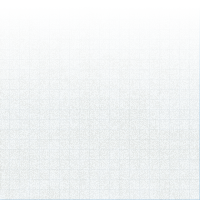
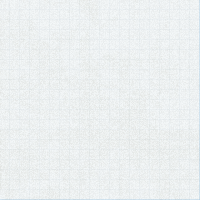
hero styling

diff --git a/index.html b/index.html
@@ -30,7 +30,7 @@
         </div>
     </div>
 
-    <div class="container-fluid">
+    <div class="container">
         <div class="row-fluid">
             <div class="span4">
                 <h2>1. Choose Your City</h2>
@@ -49,16 +49,12 @@
 
                     <div class="control-group">
                         <label class="control-label" for="keywords">Keywords</label>
-                        <div class="controls">
-                            <input type="text" id="keywords" placeholder="mountain, road, single speed, etc.">
-                        </div>
+                        <input type="text" id="keywords" placeholder="mountain, road, single speed, etc.">
                     </div>
 
                     <div class="control-group">
                         <label class="control-label" for="exclude">Excluding</label>
-                        <div class="controls">
-                            <input type="text" id="exclude" placeholder="landrider huffy">
-                        </div>
+                        <input type="text" id="exclude" placeholder="landrider huffy">
                     </div>
 
                 </div>
@@ -68,74 +64,72 @@
                 <h2>3. Refine</h2>
                 <div class="form-horizontal">
 
-                    <div class="control-group">
-                        <div class="controls">
+                    <div class="half">
+
+                        <div class="control-group">
                             <label class="checkbox" for="photos">
                                 <input type="checkbox" id="photos">
                                 Posts w/ photos
                             </label>
                         </div>
-                    </div>
 
 
-                    <div class="control-group">
-                        <div class="controls">
+                        <div class="control-group">
                             <label class="checkbox" for="women">
                                 <input type="checkbox" id="women">
                                 No women's bikes
                             </label>
                         </div>
-                    </div>
 
-                    <div class="control-group">
-                        <div class="controls">
+                        <div class="control-group">
                             <label class="checkbox" for="children">
                                 <input type="checkbox" id="children">
                                 No children's bikes
                             </label>
                         </div>
-                    </div>
 
-                    <div class="control-group">
-                        <div class="controls">
+                        <div class="control-group">
                             <label class="checkbox" for="hipster">
                                 <input type="checkbox" id="hipster">
                                 No hipster bikes
                             </label>
                         </div>
+
                     </div>
 
-                    <div class="control-group">
-                        <div class="controls">
+                    <div class="half">
+
+                        <div class="control-group">
                             <label class="checkbox" for="walmart">
                                 <input type="checkbox" id="walmart" checked>
                                 No Wal-mart bikes
                             </label>
                         </div>
-                    </div>
 
-                    <div class="control-group">
-                        <div class="controls">
+                        <div class="control-group">
                             <label class="checkbox" for="bmx">
                                 <input type="checkbox" id="bmx" checked>
                                 No BMX bikes
                             </label>
                         </div>
-                    </div>
 
-                    <div class="control-group">
-                        <div class="controls">
+                        <div class="control-group">
                             <label class="checkbox" for="shoes">
                                 <input type="checkbox" id="shoes" checked>
                                 No shoes
                             </label>
                         </div>
+
                     </div>
+
+                    <div class="clearfix"></div>
 
                 </div>
 
             </div>
+
         </div>
+
     </div>
 
     <img class="visible-desktop" id="bike" src="img/bike.png" />

diff --git a/css/style.css b/css/style.css
@@ -26,13 +26,26 @@ body {
 
 .hero-unit {
     margin-top: 60px;
+    margin-bottom: 10px;
     padding: 30px 50px;
+    background: url(../img/old_mathematics.png) repeat;
 }
 
 .control-group {
     margin-bottom: 5px !important;
 }
 
+.control-group .control-label {
+    display: inline;
+    float: none;
+    text-align: left;
+}
+
 .city-select {
     margin: 0 8px 8px 0;
+}
+
+.half {
+    float: left;
+    width: 50%;
 }
